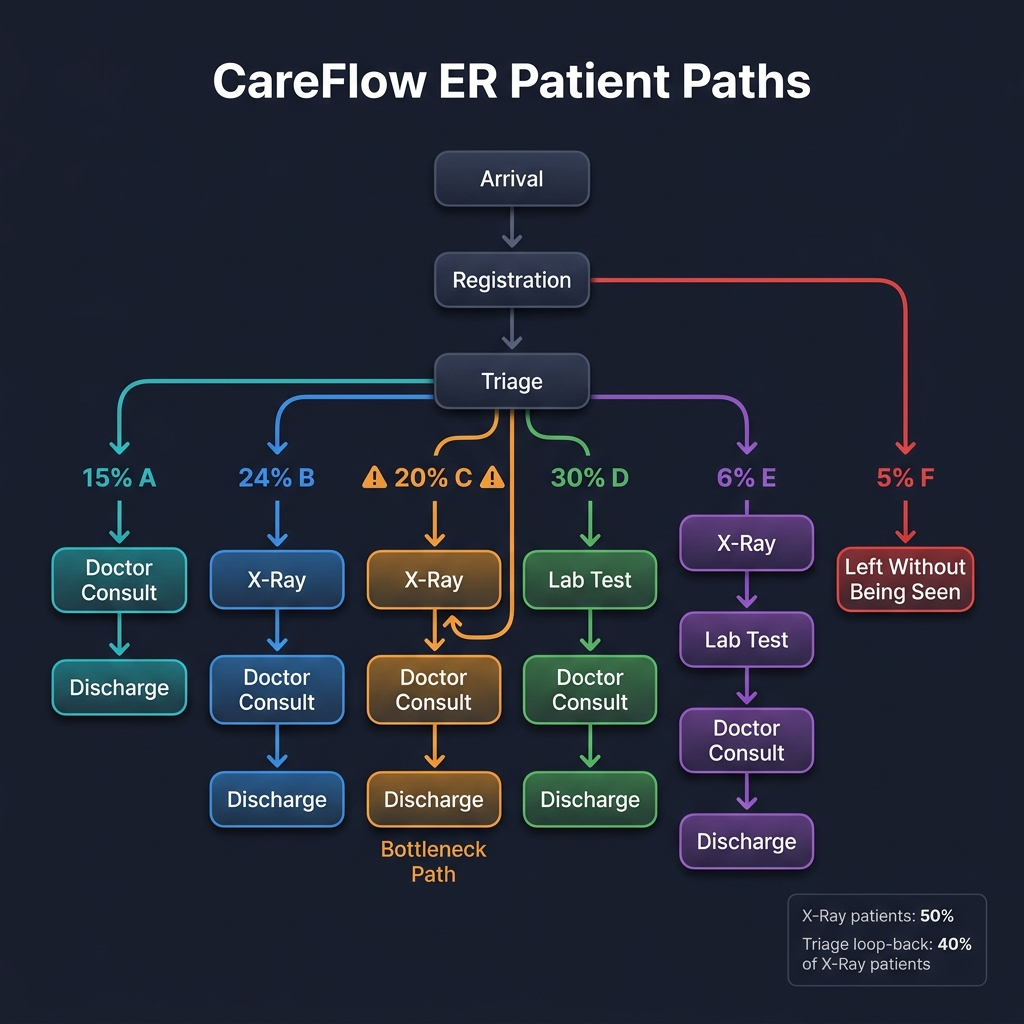
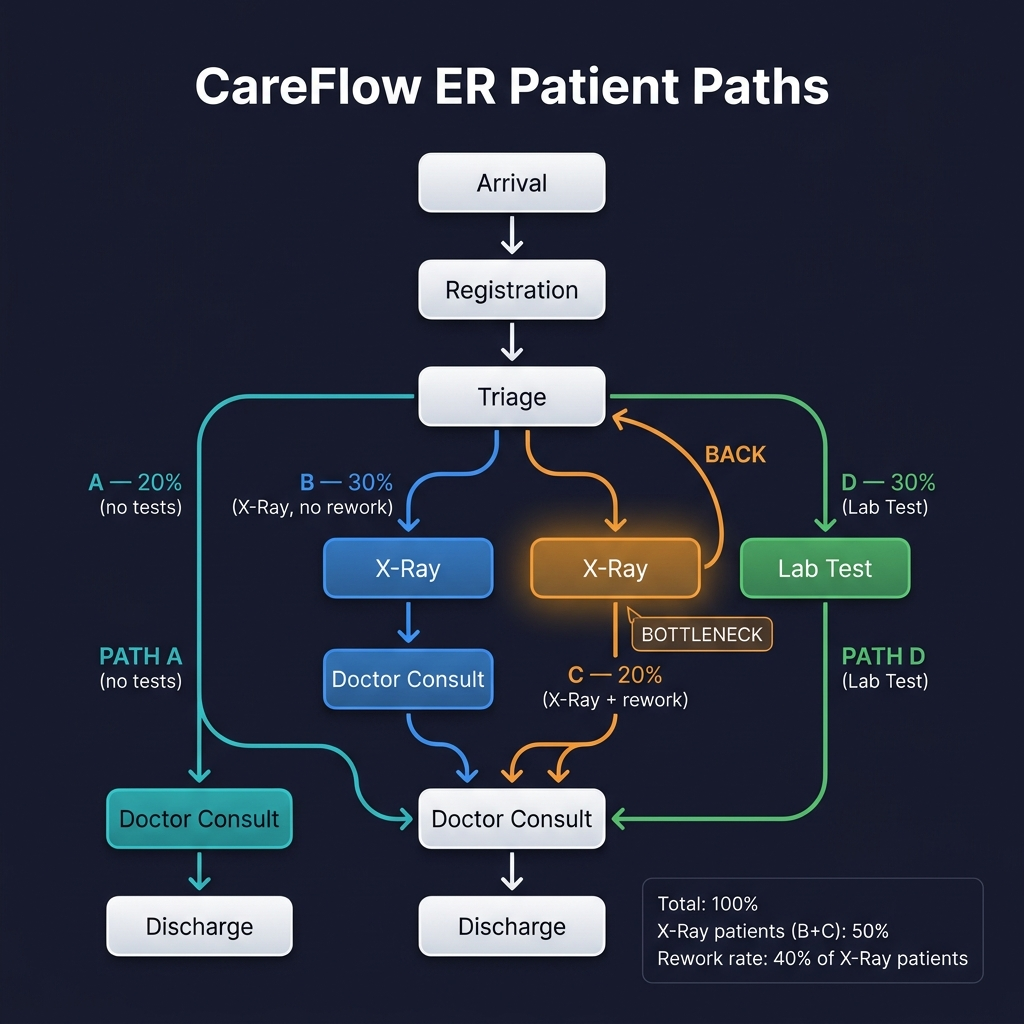
Complete data design: paths, waiting times, extra columns, size and mess

Changed region(s): [[0.0312, 0.0625, 0.9688, 0.9688]]

diff --git a/docs/data_design.md b/docs/data_design.md
@@ -8,27 +8,17 @@
 - Lab Test
 - Doctor Consult
 - Discharge
-- Left Without Being Seen *(optional — used by Path F)*
 
 ## Paths
 
 ![CareFlow ER Patient Paths](patient_flow_paths.png)
 
-### Core paths
-
 | Path | Sequence | % of patients |
 |------|----------|---------------|
-| A | Arrival → Registration → Triage → Doctor Consult → Discharge | 15 |
-| B | Arrival → Registration → Triage → X-Ray → Doctor Consult → Discharge | 24 |
+| A | Arrival → Registration → Triage → Doctor Consult → Discharge | 20 |
+| B | Arrival → Registration → Triage → X-Ray → Doctor Consult → Discharge | 30 |
 | C | Arrival → Registration → Triage → X-Ray → Triage → Doctor Consult → Discharge | 20 |
 | D | Arrival → Registration → Triage → Lab Test → Doctor Consult → Discharge | 30 |
-
-### Optional paths (for spaghetti-diagram realism)
-
-| Path | Sequence | % of patients |
-|------|----------|---------------|
-| E | Arrival → Registration → Triage → X-Ray → Lab Test → Doctor Consult → Discharge | 6 |
-| F | Arrival → Registration → Left Without Being Seen | 5 |
 
 **Total: 100%**
 
@@ -36,15 +26,169 @@
 
 | Rule | Calculation | Result |
 |------|-------------|--------|
-| All paths sum to 100 | 15 + 24 + 20 + 30 + 6 + 5 | **100 ✓** |
-| X-Ray patients (B + C + E) | 24 + 20 + 6 | **50 (50% of all patients)** |
-| C = 40% of X-Ray patients | 40% × 50 | **20 ✓** |
-| B + E = 60% of X-Ray patients | 60% × 50 | **30 (24 + 6) ✓** |
+| All paths sum to 100 | 20 + 30 + 20 + 30 | **100 ✓** |
+| X-Ray patients (B + C) | 30 + 20 | **50 (50% of all patients)** |
+| C = 40% of X-Ray patients | 20 ÷ 50 | **0.40 = 40% ✓** |
+| B = 60% of X-Ray patients | 30 ÷ 50 | **0.60 = 60% ✓** |
 
 ### Design rationale
 
-- **D is the largest single path (30%)** — lab tests are the most common diagnostic in a real ER.
-- **B + C + E = 50%** — about half of ER patients need imaging, which feels realistic.
-- **A = 15%** — a smaller group with minor complaints that go straight to the doctor after triage.
-- **E = 6%** — a small subset needs both X-Ray and Lab Test (e.g., trauma + blood work).
-- **F = 5%** — patients who leave before being seen (a well-documented ER phenomenon, adds a realistic "drop-off" to the spaghetti diagram).
+- **B + C = 50%** — half of ER patients need imaging, realistic for a general ER.
+- **C = 20%** — exactly 40% of X-Ray patients loop back to Triage (the bottleneck story).
+- **D = 30%** — lab tests are the most common diagnostic in a real ER.
+- **A = 20%** — patients with minor complaints who go straight to the doctor after triage.
+
+## Waiting Times
+
+Each row is the wait **between** two activities — the time a patient spends waiting before the next step begins. The script will sample a random value from within the min–max range for every patient.
+
+### Normal transitions
+
+| From | To | Min (min) | Max (min) | Notes |
+|------|----|-----------|-----------|-------|
+| Arrival | Registration | 2 | 8 | Quick admin check-in |
+| Registration | Triage | 5 | 15 | Short queue for triage nurse |
+| Triage | X-Ray | 15 | 35 | Waiting for imaging room |
+| Triage | Lab Test | 10 | 30 | Waiting for blood draw |
+| X-Ray | Doctor Consult | 20 | 60 | Waiting for results + doctor |
+| Lab Test | Doctor Consult | 30 | 70 | Lab results take longer than imaging |
+| Triage | Doctor Consult | 30 | 90 | Longest normal wait — doctor availability |
+| Doctor Consult | Discharge | 10 | 30 | Paperwork, prescriptions, instructions |
+
+### Rework transitions (Path C only)
+
+| From | To | Min (min) | Max (min) | Notes |
+|------|----|-----------|-----------|-------|
+| X-Ray | Triage *(return)* | 25 | 55 | Re-queued for triage after imaging findings |
+| Triage *(2nd visit)* | Doctor Consult | 40 | 120 | Back in the queue at lower priority |
+
+### Total time comparison
+
+This is the approximate **end-to-end wait** per path (sum of all transition waits):
+
+| Path | Transitions | Min total (min) | Max total (min) |
+|------|-------------|-----------------|-----------------|
+| A | Arrival→Reg→Tri→Doc→Dis | 47 | 143 |
+| B | Arrival→Reg→Tri→XR→Doc→Dis | 52 | 148 |
+| C | Arrival→Reg→Tri→XR→**Tri→Doc**→Dis | 97 | 263 |
+| D | Arrival→Reg→Tri→Lab→Doc→Dis | 57 | 153 |
+
+> **Path C patients wait ~75–85 minutes longer on average** than any other path. This is the bottleneck the process-mining analysis should surface.
+
+| Path | Average total wait (midpoint) |
+|------|-------------------------------|
+| A | 95 min |
+| B | 100 min |
+| **C** | **180 min** |
+| D | 105 min |
+
+> [!NOTE]
+> The min/max ranges overlap between paths — one unlucky Path B patient can wait longer than a lucky Path C patient. That's realistic, but the honest headline is the **average** difference.
+
+### System-wide impact
+
+| Scenario | Calculation | Average wait |
+|----------|-------------|-------------|
+| Current | 0.2×95 + 0.3×100 + 0.2×180 + 0.3×105 | **~116 min** |
+| If rework is fixed (Path C → Path B) | 0.2×95 + 0.5×100 + 0.3×105 | **~100 min** |
+| **Savings** | | **~16 min/patient** |
+
+### Design rationale for times
+
+- **Arrival → Registration** and **Registration → Triage** are fast (2–15 min) — these are admin steps, not clinical bottlenecks.
+- **Triage → Doctor Consult** has the widest normal range (30–90 min) because doctor availability is the primary constraint in any ER.
+- **X-Ray → Triage (return)** is 25–55 min — the patient must wait for a triage nurse *again*, but the nurse now needs to review the X-Ray results first.
+- **Triage (2nd) → Doctor Consult** is the slowest transition in the entire system (40–120 min) — rework patients re-enter the doctor queue behind new arrivals, making this the core of the bottleneck story.
+
+> [!IMPORTANT]
+> **Scripting note:** "Triage → Doctor Consult" appears twice with different wait ranges: **30–90 min** for the first visit and **40–120 min** for the second (rework). The generator script must select the wait based on *which Triage visit it is* (1st vs 2nd), not just the activity name pair.
+
+## Extra Columns
+
+Each row in the event log will have these columns beyond the standard `case_id`, `activity`, and `timestamp`:
+
+| Column | Type | Allowed values | Logic |
+|--------|------|----------------|-------|
+| `department` | string | `Reception`, `Triage`, `Radiology`, `Laboratory`, `Emergency`, `Discharge` | Set per activity (see mapping below) |
+| `acuity_level` | integer | `1`, `2`, `3`, `4`, `5` | Assigned once per patient at Triage; stays constant for all their events |
+| `missing_form_flag` | boolean | `true`, `false` | `true` for **~90% of Path C** patients and **~5% of others** (avoids a perfect correlation that looks artificial) |
+
+### Department mapping
+
+| Activity | Department |
+|----------|------------|
+| Arrival | Reception |
+| Registration | Reception |
+| Triage | Triage |
+| X-Ray | Radiology |
+| Lab Test | Laboratory |
+| Doctor Consult | Emergency |
+| Discharge | Discharge |
+
+### Acuity level distribution
+
+ESI (Emergency Severity Index) 1–5, where 1 = most urgent:
+
+| Level | Meaning | % of patients |
+|-------|---------|---------------|
+| 1 | Resuscitation | 2 |
+| 2 | Emergent | 13 |
+| 3 | Urgent | 45 |
+| 4 | Less urgent | 30 |
+| 5 | Non-urgent | 10 |
+
+> [!NOTE]
+> Acuity is independent of path. A Level 2 patient can be on Path A (no tests) or Path C (rework). The acuity column is useful for filtering and segmentation in the analysis, but it doesn't change the waiting times in this simulation.
+
+## Size and Mess
+
+### Dataset size
+
+| Parameter | Value |
+|-----------|-------|
+| Number of patients | **1,500** |
+| Date range | **2025-10-01 to 2025-10-21** (3 weeks) |
+| Arrivals per day | ~71 (spread across 24 hours, weighted toward 8 AM – 10 PM) |
+
+### Intentional data quality errors
+
+These are planted on purpose so the cleaning script has real work to do:
+
+| Error type | Description | Count | % of events |
+|------------|-------------|-------|-------------|
+| **Duplicate rows** | Exact duplicate events (same case_id, activity, timestamp) | ~30 rows | 0.33% |
+| **Missing case IDs** | `case_id` is blank or `NaN` | ~20 rows | 0.22% |
+| **Inconsistent activity names** | `"xray"`, `"x-ray"`, `"Xray"` instead of `"X-Ray"`; `"lab_test"` instead of `"Lab Test"` | ~45 rows | 0.50% |
+| **Null timestamps** | `timestamp` is blank or `NaT` | ~15 rows | 0.17% |
+
+**Total dirty rows: ~110 out of ~9,000 events (~1.2%)**
+
+### Clean vs dirty file strategy
+
+The generator will save **two files**:
+
+| File | Path | Contents |
+|------|------|----------|
+| Clean copy | `data/raw/clean_events.csv` | Perfect data, no errors — used as ground truth |
+| Dirty copy | `data/raw/er_events.csv` | Same data with errors planted — this is the "real" input |
+
+> [!IMPORTANT]
+> After cleaning, compare the cleaned output against `clean_events.csv` to prove the pipeline works. Row counts, activity distributions, and path frequencies should match.
+
+### Handling dropped rows
+
+Removing a row with a missing `case_id` or null `timestamp` deletes an event from a patient's journey, which can make a normal trace look like a fake variant (e.g., a missing Triage row makes Path B look like Arrival → Registration → X-Ray → …). The cleaning script should:
+
+1. **Repair** where possible (fill missing case_id from surrounding rows if the rest of the trace is intact)
+2. **Drop** only as a last resort
+3. **Log** every action taken — this makes a strong point in the report
+
+> [!TIP]
+> The cleaning script should log every fix it makes. That way the report can say: *"We removed 30 duplicates, repaired 45 inconsistent activity names, …"* — concrete numbers make the data-quality section credible.
+
+### Why these numbers
+
+- **1,500 patients** — large enough for meaningful process-mining metrics, small enough to generate and inspect quickly.
+- **3 weeks** — enough to show daily/weekly patterns without making the CSV unwieldy.
+- **~1.2% error rate** — realistic for a hospital system; high enough to demonstrate the cleaning pipeline, low enough that the core analysis isn't swamped by noise.
+
